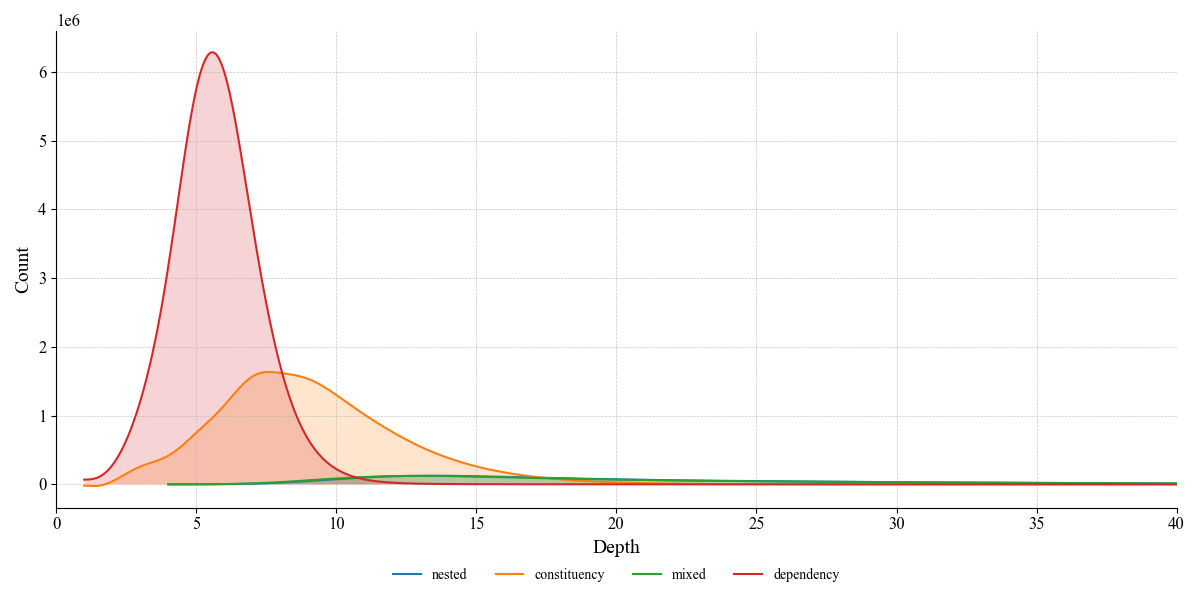
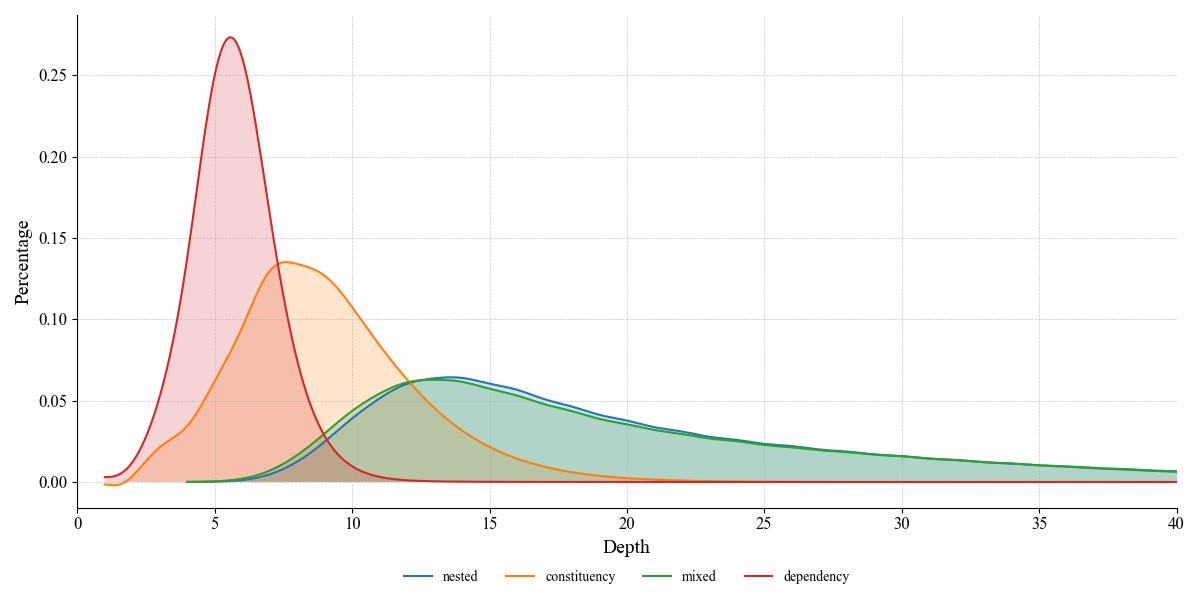
data analysis

diff --git a/utils.py b/utils.py
@@ -18,6 +18,10 @@ def depth_distribution(data, output_name, title):
         x = sorted(map(int, data.keys()))
         y = [data[str(k)] for k in x]
 
+        y_total = sum(y)
+        print(sum(y))
+        y = [v / y_total for v in y]
+
         x_new = np.linspace(min(x), max(x), 500)
         spl = make_interp_spline(x, y, k=3)
         y_smooth = spl(x_new)
@@ -28,7 +32,7 @@ def depth_distribution(data, output_name, title):
 
     # plt.title(title)
     plt.xlabel(title)
-    plt.ylabel('Count')
+    plt.ylabel('Percentage')
     plt.xlim(0, 40) 
     plt.grid(True, linestyle='--', linewidth=0.5, alpha=0.7)
     ax = plt.gca()
@@ -52,6 +56,10 @@ def leaves_distribution(data, output_name, title):
         x = sorted(map(int, data.keys()))
         y = [data[str(k)] for k in x]
 
+        y_total = sum(y)
+        print(sum(y))
+        y = [v / y_total for v in y]
+
         x_new = np.linspace(min(x), max(x), 500)
         spl = make_interp_spline(x, y, k=3)
         y_smooth = spl(x_new)
@@ -62,7 +70,7 @@ def leaves_distribution(data, output_name, title):
 
     # plt.title(title)
     plt.xlabel(title)
-    plt.ylabel('Count')
+    plt.ylabel('Percentage')
     plt.xlim(0, 200) 
     plt.grid(True, linestyle='--', linewidth=0.5, alpha=0.7)
     ax = plt.gca()
@@ -86,6 +94,10 @@ def symmetry_distribution(data, output_name, title):
         x = sorted(map(float, data.keys()))
         y = [data[str(k)] for k in x]
 
+        y_total = sum(y)
+        print(sum(y))
+        y = [v / y_total for v in y]
+
         x_new = np.linspace(min(x), max(x), 500)
         spl = make_interp_spline(x, y, k=3)
         y_smooth = spl(x_new)
@@ -96,8 +108,47 @@ def symmetry_distribution(data, output_name, title):
 
     # plt.title(title)
     plt.xlabel(title)
-    plt.ylabel('Count')
+    plt.ylabel('Percentage')
     # plt.xlim(0, 15) 
+    plt.grid(True, linestyle='--', linewidth=0.5, alpha=0.7)
+    ax = plt.gca()
+    ax.spines['top'].set_visible(False)
+    ax.spines['right'].set_visible(False)
+    plt.legend(loc='upper center', bbox_to_anchor=(0.5, -0.1), ncol=4, frameon=False)
+    plt.tight_layout()
+    plt.savefig(output_name)
+
+def branch_distribution(data, output_name, title):
+    plt.figure(figsize=(12, 6))
+    colors = plt.get_cmap("tab10")
+
+    plt.rcParams['font.family'] = 'Times New Roman'
+    plt.rcParams['axes.titlesize'] = 18
+    plt.rcParams['axes.labelsize'] = 14
+    plt.rcParams['xtick.labelsize'] = 12
+    plt.rcParams['ytick.labelsize'] = 12
+
+    for idx, (label, data) in enumerate(data.items()):
+        x = sorted(map(float, data.keys()))
+        y = [data[str(k)] for k in x]
+
+        y_total = sum(y)
+        print(sum(y))
+        y = [v / y_total for v in y]
+
+        x_new = np.linspace(min(x), max(x), 500)
+        spl = make_interp_spline(x, y, k=3)
+        y_smooth = spl(x_new)
+        y_smoothed = gaussian_filter1d(y_smooth, sigma=3)
+        y_smoothed = y_smoothed / np.sum(y_smoothed)
+
+        plt.plot(x_new, y_smoothed, label=label, color=colors(idx))
+        plt.fill_between(x_new, y_smoothed, alpha=0.2)
+
+    # plt.title(title)
+    plt.xlabel(title)
+    plt.ylabel('Percentage')
+    plt.xlim(0, 15) 
     plt.grid(True, linestyle='--', linewidth=0.5, alpha=0.7)
     ax = plt.gca()
     ax.spines['top'].set_visible(False)
@@ -118,30 +169,40 @@ with open('features/mixed.json', 'r') as file:
 with open('features/dependency.json', 'r') as file:
     dependency = json.load(file)
 
-depth = {
-    "nested": nested['depth'],
-    "constituency": constituency['depth'],
-    "mixed": mixed['depth'],
-    "dependency": dependency['depth']
+# depth = {
+#     "nested": nested['depth'],
+#     "constituency": constituency['depth'],
+#     "mixed": mixed['depth'],
+#     "dependency": dependency['depth']
+# }
+
+# depth_distribution(depth, "imgs/depth.png", "Depth")
+
+# leaves = {
+#     "nested": nested['leaves'],
+#     "constituency": constituency['leaves'],
+#     "mixed": mixed['leaves'],
+#     "dependency": dependency['leaves']
+# }
+
+# leaves_distribution(leaves, "imgs/leaves.png", "Leaves")
+
+# symmetry = {
+#     "nested": nested['symmetry'],
+#     "constituency": constituency['symmetry'],
+#     "mixed": mixed['symmetry'],
+#     "dependency": dependency['symmetry']
+# }
+
+# symmetry_distribution(symmetry, "imgs/symmetry.png", "Symmetry")
+
+branching = {
+    "nested": nested['branching']['avg'],
+    "constituency": constituency['branching']['avg'],
+    "mixed": mixed['branching']['avg'],
+    "dependency": dependency['branching']['avg']
 }
 
-depth_distribution(depth, "imgs/depth.png", "Depth")
+branch_distribution(branching, "imgs/branching.png", "Branch")
 
-leaves = {
-    "nested": nested['leaves'],
-    "constituency": constituency['leaves'],
-    "mixed": mixed['leaves'],
-    "dependency": dependency['leaves']
-}
-
-leaves_distribution(leaves, "imgs/leaves.png", "Leaves")
-
-symmetry = {
-    "nested": nested['symmetry'],
-    "constituency": constituency['symmetry'],
-    "mixed": mixed['symmetry'],
-    "dependency": dependency['symmetry']
-}
-
-symmetry_distribution(symmetry, "imgs/symmetry.png", "Symmetry")
 
